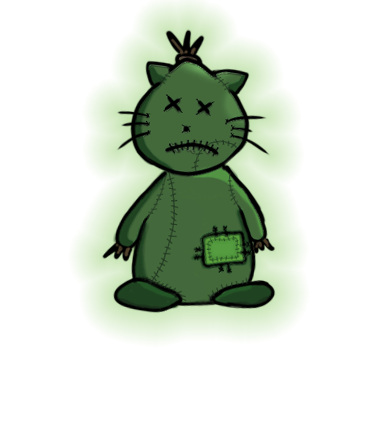
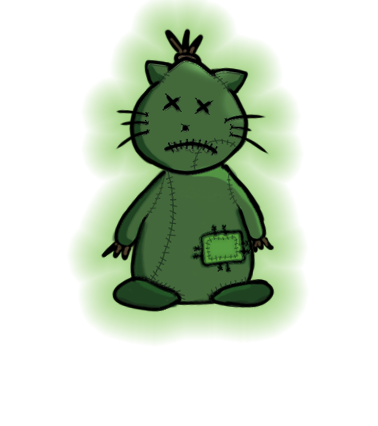
WIP

diff --git a/examples/bubble_idle/BubbleIdle.cpp b/examples/bubble_idle/BubbleIdle.cpp
@@ -360,6 +360,11 @@ struct Main
     sf::ImGui::ImGuiContext imGuiContext;
 
     ////////////////////////////////////////////////////////////
+    // Exiting status
+    bool escWasPressed = false;
+    bool mustExit      = false;
+
+    ////////////////////////////////////////////////////////////
     // Texture atlas
     sf::TextureAtlas textureAtlas{sf::Texture::create({4096u, 4096u}, {.smooth = true}).value()};
 
@@ -1890,6 +1895,56 @@ Using prestige points, the magnet can be upgraded to filter specific bubble type
     }
 
     ////////////////////////////////////////////////////////////
+    void uiDrawExitPopup(const float newScalingFactor)
+    {
+        if (!escWasPressed)
+            return;
+
+        constexpr float scaleMult = 1.25f;
+
+        ImGui::SetNextWindowPos({getResolution().x / 2.f, getResolution().y / 2.f}, 0, {0.5f, 0.5f});
+        ImGui::SetNextWindowSizeConstraints(ImVec2(400.f * scaleMult * newScalingFactor, 0.f),
+                                            ImVec2(400.f * scaleMult * newScalingFactor,
+                                                   300.f * scaleMult * newScalingFactor));
+
+        ImGui::Begin("##exit",
+                     nullptr,
+                     ImGuiWindowFlags_NoSavedSettings | ImGuiWindowFlags_NoResize | ImGuiWindowFlags_AlwaysAutoResize |
+                         ImGuiWindowFlags_NoTitleBar);
+
+        ImGui::SetWindowFontScale(scaleMult);
+
+        uiCenteredText("Are you sure you want to exit?");
+
+        ImGui::Dummy(ImVec2(0.f, 10.f * scaleMult));
+        constexpr float exitButtonWidth = 60.f * scaleMult;
+
+        ImGui::SetCursorPosX((ImGui::GetContentRegionAvail().x - exitButtonWidth * 2.f - 5.f) * 0.5f);
+
+        ImGui::BeginGroup();
+
+        if (ImGui::Button("Yes", ImVec2(exitButtonWidth, 0.f)))
+        {
+            playSound(sounds.uitab);
+            mustExit = true;
+        }
+
+        ImGui::SameLine();
+
+        if (ImGui::Button("No", ImVec2(exitButtonWidth, 0.f)))
+        {
+            playSound(sounds.uitab);
+            escWasPressed = false;
+        }
+
+        ImGui::EndGroup();
+
+        ImGui::SetWindowFontScale(uiNormalFontScale);
+
+        ImGui::End();
+    }
+
+    ////////////////////////////////////////////////////////////
     void uiDraw(const sf::Vector2f mousePos)
     {
         uiWidgetId = 0u;
@@ -1942,6 +1997,9 @@ Using prestige points, the magnet can be upgraded to filter specific bubble type
         uiMakeShrineOrCatTooltip(mousePos);
 
         ImGui::End();
+
+        uiDrawExitPopup(newScalingFactor);
+
         ImGui::PopStyleVar();
         ImGui::PopFont();
     }
@@ -7938,6 +7996,56 @@ Using prestige points, the magnet can be upgraded to filter specific bubble type
     }
 
     ////////////////////////////////////////////////////////////
+    void gameLoopUpdatePurchaseUnlockedEffects(const float deltaTimeMs)
+    {
+        for (auto& [y, countdown, arrowCountdown, hue, type] : purchaseUnlockedEffects)
+        {
+            if (countdown.updateAndStop(deltaTimeMs) == CountdownStatusStop::Running)
+            {
+                const float imguiWidth = uiWindowWidth * getUIScalingFactor();
+                float       x          = remap(countdown.value, 0.f, 1000.f, 0.f, imguiWidth);
+                const auto  pos        = sf::Vector2f{uiGetWindowPos().x - x,
+                                              y + (14.f + rng.getF(-12.f, 12.f)) * getUIScalingFactor()};
+
+                spawnHUDTopParticle({.position      = pos,
+                                     .velocity      = rng.getVec2f({-0.04f, -0.04f}, {0.04f, 0.04f}),
+                                     .scale         = rng.getF(0.08f, 0.27f) * 0.25f * getUIScalingFactor(),
+                                     .accelerationY = 0.f,
+                                     .opacity       = 1.f,
+                                     .opacityDecay  = rng.getF(0.00065f, 0.0055f),
+                                     .rotation      = rng.getF(0.f, sf::base::tau),
+                                     .torque        = rng.getF(-0.002f, 0.002f)},
+                                    /* hue */ wrapHue(165.f + hue),
+                                    ParticleType::Star);
+            }
+
+            if (arrowCountdown.updateAndStop(deltaTimeMs) == CountdownStatusStop::Running)
+            {
+                const float imguiWidth = uiWindowWidth * getUIScalingFactor();
+
+                const auto blinkFn = [](const float value)
+                { return (1 - sf::base::cos(2.f * sf::base::pi * value)) / 2.f; };
+
+                const float blinkProgress = blinkFn(arrowCountdown.getProgressBounced(2000.f));
+
+                const auto arrowAlpha = static_cast<sf::base::U8>(easeInOutCubic(blinkProgress) * 255.f);
+
+                const auto& tx = type == 0 ? txUnlock : txPurchasable;
+
+                getWindow().draw(tx,
+                                 {.position = {uiGetWindowPos().x - imguiWidth, y + 14.f * getUIScalingFactor()},
+                                  .scale    = sf::Vector2f{0.25f, 0.25f} *
+                                           (getUIScalingFactor() + -0.15f * easeInOutBack(blinkProgress)),
+                                  .origin = tx.getRect().getCenterRight(),
+                                  .color  = hueColor(hue, arrowAlpha)},
+                                 {.shader = &shader});
+            }
+        }
+
+        sf::base::vectorEraseIf(purchaseUnlockedEffects, [](const auto& pue) { return pue.arrowCountdown.isDone(); });
+    }
+
+    ////////////////////////////////////////////////////////////
     void gameLoopDrawCursor(const float deltaTimeMs, const float cursorGrow)
     {
         auto& window = *optWindow;
@@ -8484,10 +8592,7 @@ Using prestige points, the magnet can be upgraded to filter specific bubble type
         const float fixedBgX = 2100.f * sf::base::fmod(fixedBgSlide, 3.f);
         window.setView(nonScaledHUDView);
         window.draw(txFixedBg,
-                    {
-                        .position = {resolution.x / 2.f - actualScroll / 20.f - fixedBgX, 0.f},
-                        .scale    = {ratio, ratio},
-                    },
+                    {.position = {resolution.x / 2.f - actualScroll / 20.f - fixedBgX, 0.f}, .scale = {ratio, ratio}},
                     {.shader = &shader});
     }
 
@@ -8708,6 +8813,13 @@ Using prestige points, the magnet can be upgraded to filter specific bubble type
     ////////////////////////////////////////////////////////////
     [[nodiscard]] bool gameLoop()
     {
+        if (mustExit)
+            return false;
+
+        //
+        // Only draw UI elements if not in prestige transition and splash is done
+        const bool shouldDrawUI = !inPrestigeTransition && splashCountdown.value <= 0.f;
+
         steamMgr.runCallbacks();
 
         if (!gameLoopRecreateWindowIfNeeded())
@@ -8724,7 +8836,17 @@ Using prestige points, the magnet can be upgraded to filter specific bubble type
         {
             imGuiContext.processEvent(window, *event);
 
-            if (sf::EventUtils::isClosedOrEscapeKeyPressed(*event))
+            if (shouldDrawUI && event->is<sf::Event::KeyPressed>() &&
+                event->getIf<sf::Event::KeyPressed>()->code == sf::Keyboard::Key::Escape)
+            {
+                if (!escWasPressed)
+                {
+                    playSound(sounds.btnswitch);
+                    escWasPressed = true;
+                }
+            }
+
+            if (event->is<sf::Event::Closed>())
                 return false;
 
 #pragma GCC diagnostic push
@@ -8940,10 +9062,6 @@ Using prestige points, the magnet can be upgraded to filter specific bubble type
         imGuiContext.update(window, deltaTime);
 
         //
-        // Only draw UI elements if not in prestige transition and splash is done
-        const bool shouldDrawUI = !inPrestigeTransition && splashCountdown.value <= 0.f;
-
-        //
         // Draw ImGui menu
         if (shouldDrawUI)
             uiDraw(mousePos);
@@ -9088,52 +9206,8 @@ Using prestige points, the magnet can be upgraded to filter specific bubble type
         gameLoopDrawImGui();
 
         //
-        // TODO P0
-        for (auto& [y, countdown, arrowCountdown, hue, type] : purchaseUnlockedEffects)
-        {
-            if (countdown.updateAndStop(deltaTimeMs) == CountdownStatusStop::Running)
-            {
-                const float imguiWidth = uiWindowWidth * getUIScalingFactor();
-                float       x          = remap(countdown.value, 0.f, 1000.f, 0.f, imguiWidth);
-                const auto  pos        = sf::Vector2f{uiGetWindowPos().x - x,
-                                              y + (14.f + rng.getF(-12.f, 12.f)) * getUIScalingFactor()};
-
-                spawnHUDTopParticle({.position      = pos,
-                                     .velocity      = rng.getVec2f({-0.04f, -0.04f}, {0.04f, 0.04f}),
-                                     .scale         = rng.getF(0.08f, 0.27f) * 0.25f * getUIScalingFactor(),
-                                     .accelerationY = 0.f,
-                                     .opacity       = 1.f,
-                                     .opacityDecay  = rng.getF(0.00065f, 0.0055f),
-                                     .rotation      = rng.getF(0.f, sf::base::tau),
-                                     .torque        = rng.getF(-0.002f, 0.002f)},
-                                    /* hue */ wrapHue(165.f + hue),
-                                    ParticleType::Star);
-            }
-
-            if (arrowCountdown.updateAndStop(deltaTimeMs) == CountdownStatusStop::Running)
-            {
-                const float imguiWidth = uiWindowWidth * getUIScalingFactor();
-
-                const auto blinkFn = [](const float value)
-                { return (1 - sf::base::cos(2.f * sf::base::pi * value)) / 2.f; };
-
-                const float blinkProgress = blinkFn(arrowCountdown.getProgressBounced(2000.f));
-
-                const auto arrowAlpha = static_cast<sf::base::U8>(easeInOutCubic(blinkProgress) * 255.f);
-
-                const auto& tx = type == 0 ? txUnlock : txPurchasable;
-
-                window.draw(tx,
-                            {.position = {uiGetWindowPos().x - imguiWidth, y + 14.f * getUIScalingFactor()},
-                             .scale    = sf::Vector2f{0.25f, 0.25f} *
-                                      (getUIScalingFactor() + -0.15f * easeInOutBack(blinkProgress)),
-                             .origin = tx.getRect().getCenterRight(),
-                             .color  = hueColor(hue, arrowAlpha)},
-                            {.shader = &shader});
-            }
-        }
-
-        sf::base::vectorEraseIf(purchaseUnlockedEffects, [](const auto& pue) { return pue.arrowCountdown.isDone(); });
+        // Purchase unlocked/available effects
+        gameLoopUpdatePurchaseUnlockedEffects(deltaTimeMs);
 
         // Top-level hud particles
         if (shouldDrawUI)
@@ -9298,22 +9372,19 @@ int main()
     Main{steamMgr}.run();
 }
 
-// TODO:
-// - P0 achievements for speedrunning milestones
-// - P1 crazy upgrade for like 512PPs "the brain takes over" that turns normal cats into brains with 10x or 50x
+// TODO P0: achievements for speedrunning milestones
+// TODO P1: crazy upgrade for like 512PPs "the brain takes over" that turns normal cats into brains with 10x or 50x
 // multiplier with corrupted zalgo names
-// - P1 disable exiting with escape key, or add popup to confirm
-// - P1 encrypt save files
-// - P1 maybe make "autocast spell selector" a PP upgrade for around 128PPs
-// - P1 pp upgrade around 128pp that makes manually clicked bombs worth 100x (or maybe all bubbles)
-// - P1 prestige should scale indefinitely...? maybe when we reach max bubble value just purchase prestige points
-// - P1 rested buff 1PP: 1.25x mult, enables after Xs of inactivity, can be upgraded up to 3x mult with PPs, maybe also
-// upgrade time needed to trigger
-// - P1 rewrite serialization to accept versioning
-// - P1 steamDRM
-// - P1 tooltips for options, reorganize them
-// - P2 configurable particle spawn chance
-// - P2 configurable pop sound play chance
-// - P2 find better word for "prestige"
-// - P2 maybe 64PP prestige buff for multipop that allows "misses"
-// - P2 reduce size of game textures and try to reduce atlas size
+// TODO P1: maybe make "autocast spell selector" a PP upgrade for around 128PPs
+// TODO P1: pp upgrade around 128pp that makes manually clicked bombs worth 100x (or maybe all bubbles)
+// TODO P1: prestige should scale indefinitely...? maybe when we reach max bubble value just purchase prestige points
+// TODO P1: rested buff 1PP: 1.25x mult, enables after Xs of inactivity, can be upgraded up to 3x mult with PPs, maybe
+// also upgrade time needed to trigger
+// TODO P1: steamDRM
+// TODO P1: tooltips for options, reorganize them
+// TODO P2: encrypt save files
+// TODO P2: configurable particle spawn chance
+// TODO P2: configurable pop sound play chance
+// TODO P2: find better word for "prestige"
+// TODO P2: maybe 64PP prestige buff for multipop that allows "misses"
+// TODO P2: reduce size of game textures and try to reduce atlas size
